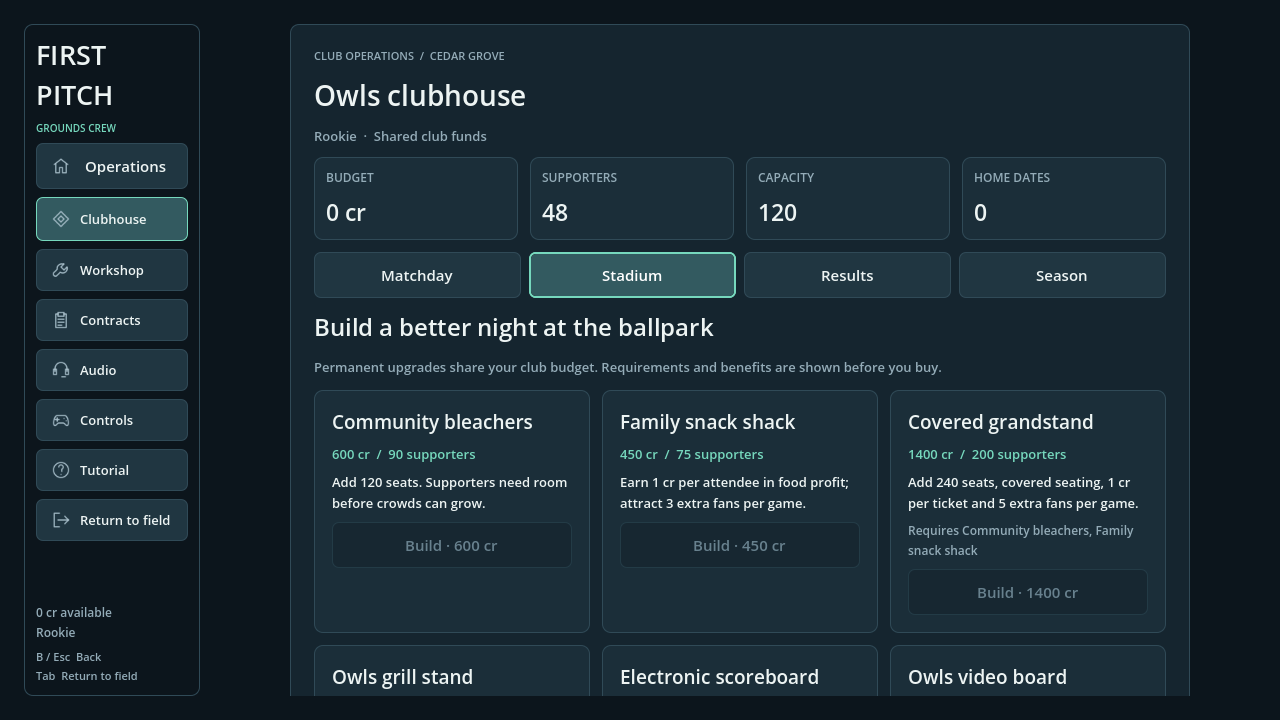
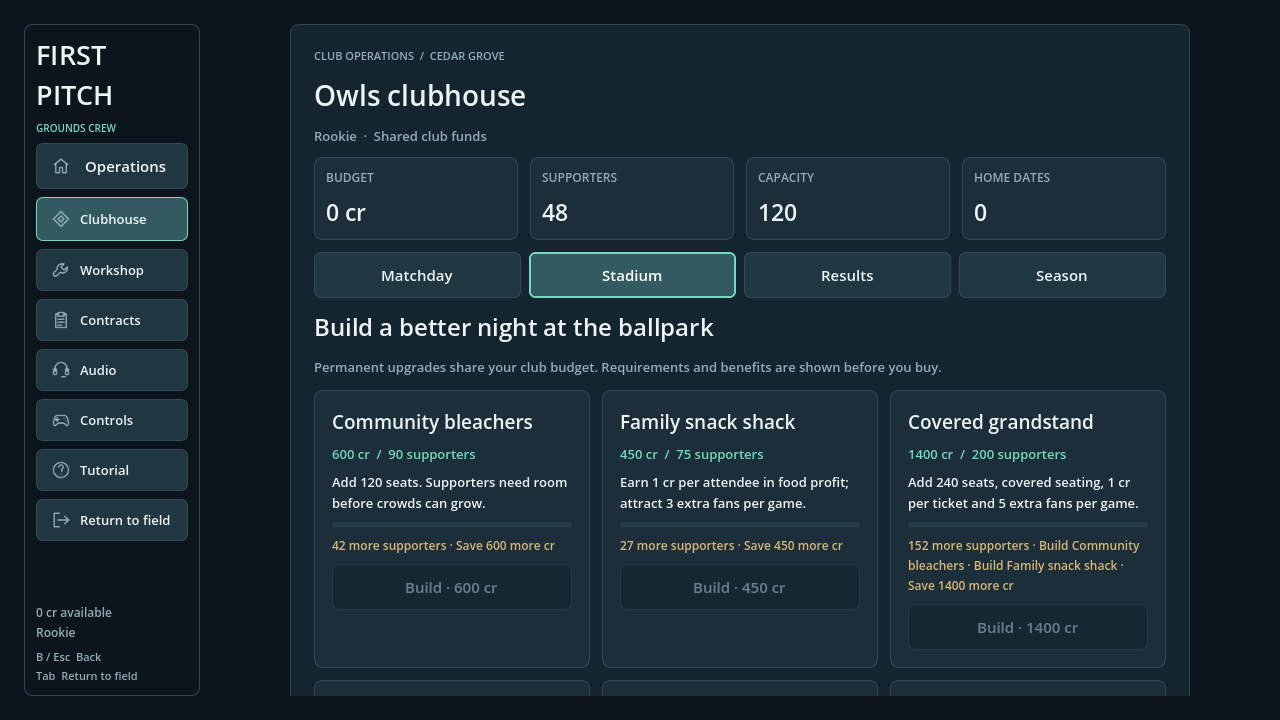
Clarify upgrade requirements and streamline postgame UI

diff --git a/docs/VERIFICATION.md b/docs/VERIFICATION.md
@@ -325,3 +325,11 @@ The UI now shares a navy/mint Theme and eight original outline SVG icons. Operat
 - Inspected actual captures for Operations, Matchday, Stadium, Workshop, Contracts, Audio, Controls, Results and the live HUD. Selected `ui-*.png` captures are under `docs/screenshots/`. The UI script disables covered 3D rendering beneath the opaque menus for software-rendering efficiency and restores it for the HUD capture. Full prep is a surface-state fixture, not a human full-game playthrough.
 
 Graphics used Linux Xorg dummy/Mesa llvmpipe OpenGL Compatibility. Unsupported virtual-display V-Sync and occasional existing ObjectDB teardown warnings remain. Physical controllers, native Windows and Forward+ hardware rendering remain unverified. No economy, reward, save-version or field-layout changes were made in this UI pass.
+
+## UI refinement: purchase states and postgame disclosure
+
+Equipment and stadium cards now show savings meters, explicit cash/rank/supporter/construction requirements, installed/built states, and remaining funds for affordable purchases. Equipment purchases show confirmation and restore usable controller focus. Results shows gate profit, manager bonus and fan growth as summary tiles; the full existing receipt expands on request, keeping the next action and investment easier to find.
+
+- `test_modern_ui.gd`: **28 checks passed** headlessly and graphically, including native purchase/install and wallet reconciliation, exact lock reasons, postgame metrics, expandable wages and post-purchase focus, alongside the previous mouse/D-pad and three-size layout checks.
+- Existing career gameplay (18), club gameplay (39), game-day gameplay (31), equipment upgrades (30) controller input (34) and autosave (27) passed: **207 distinct checks** across seven suites including modern UI. No script errors or failed assertions remained in the verified logs.
+- Reviewed updated software-rendered Stadium, Workshop, purchase confirmation and Results screenshots. Linux Xorg/Mesa Compatibility verification retains the prior hardware and human playtesting limits. Economy and save formats are unchanged.

diff --git a/docs/LEARNING_NOTES.md b/docs/LEARNING_NOTES.md
@@ -317,3 +317,9 @@ Starter handling can be tuned without touching result reconstruction or ledger e
 - Build focus links after layout as well as immediately. Godot's container positions settle after visibility changes; rail-to-content links must use the active page and exclude hidden/disabled controls. Resume offers disable every rail button.
 - Use one shared Theme and original outline SVG icons; preserve public HUD fields for tool/tutorial controllers. Noninteractive HUD controls ignore mouse input so panels cannot intercept watering.
 - The UI capture test disables covered world rendering beneath opaque menus to speed software rendering, then restores it for the live HUD capture. Menu widgets, native click routing and injected D-pad events still run through Godot itself. Headless tests emit button signals because Godot's headless display does not route these pointer events.
+
+### UI purchase clarity
+
+Disabled buttons need an adjacent reason because mouse hover and tooltips alone do not serve controller users. Equipment and stadium cards now show dynamic requirements and cash savings; owned upgrades replace that information with an installed/built state. Equipment purchase callbacks refresh menu focus after disabling the purchased button, and place confirmation near the resulting focus destination. Postgame highlights are read from the settled receipt; expanding details retains the original full wage/gate/request breakdown. Headless button helpers must also toggle toggle-mode buttons before emitting their pressed signal.
+
+Progress bars inherit Range, just like interactive sliders. Filtering controller targets by Range made the new savings meters focusable. Navigation now accepts buttons and Slider controls explicitly, and the UI regression checks the final focus and confirmation positions inside the scroll viewport.

diff --git a/README.md b/README.md
@@ -451,3 +451,5 @@ The Clubhouse has four focused views:
 Workshop and contract purchases use cards. The field HUD uses a compact task/progress card, a separate shift checklist, contextual condition/tutorial panels, and a bottom interaction prompt. Menu navigation supports mouse, keyboard and controller: D-pad left/right crosses between the rail and content, B/Esc returns, and Tab returns to the field. Autosave recovery locks the rail until you choose Resume or Start fresh.
 
 [Clubhouse](docs/screenshots/ui-matchday.png) · [Stadium upgrades](docs/screenshots/ui-stadium.png) · [Postgame report](docs/screenshots/ui-results.png) · [Field HUD](docs/screenshots/ui-hud.png)
+
+Purchase cards now show savings meters and explain each lock: missing credits, supporters, rank, earlier buildings, or an unfinished shift. Available equipment previews your remaining balance; completed purchases show an installed state and a confirmation. Postgame summaries highlight gate profit, manager bonus and new supporters, with the full settled earnings available under **Show earnings breakdown**.
